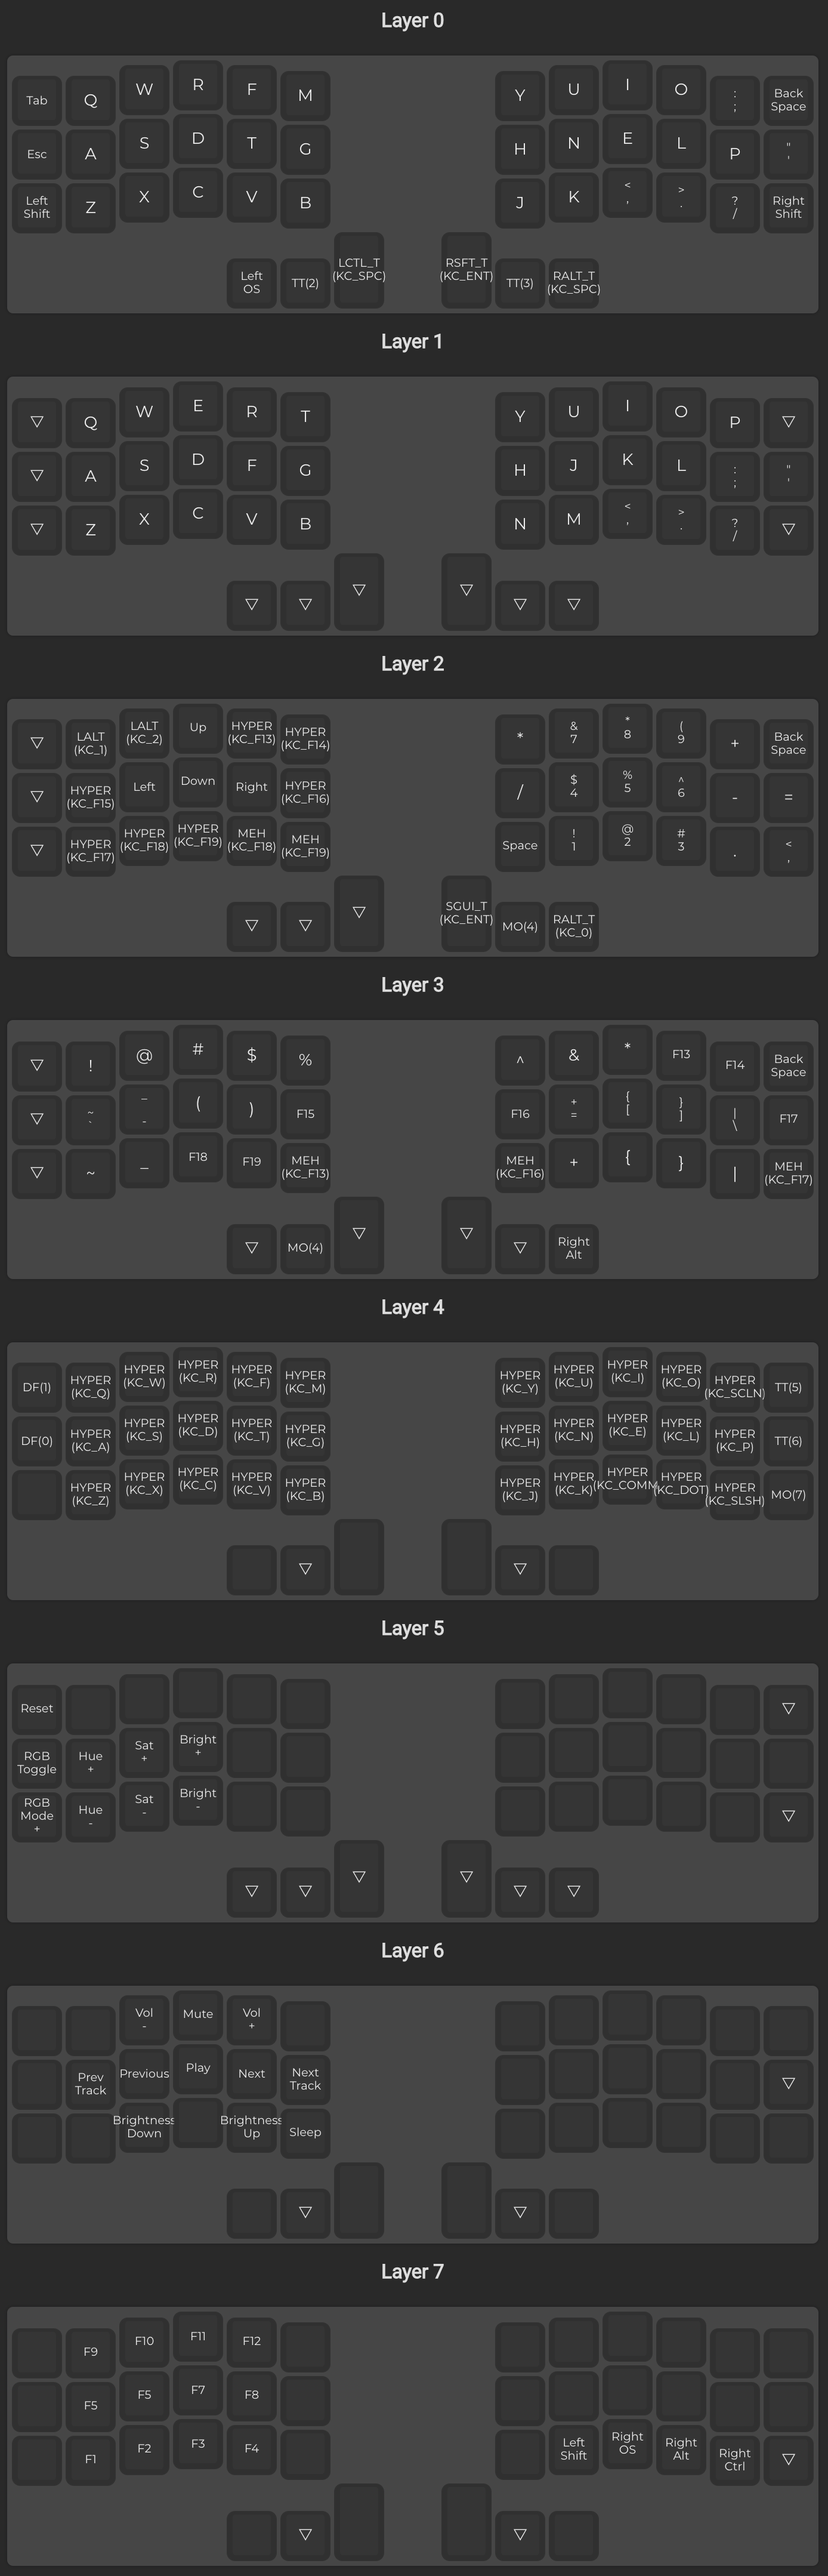
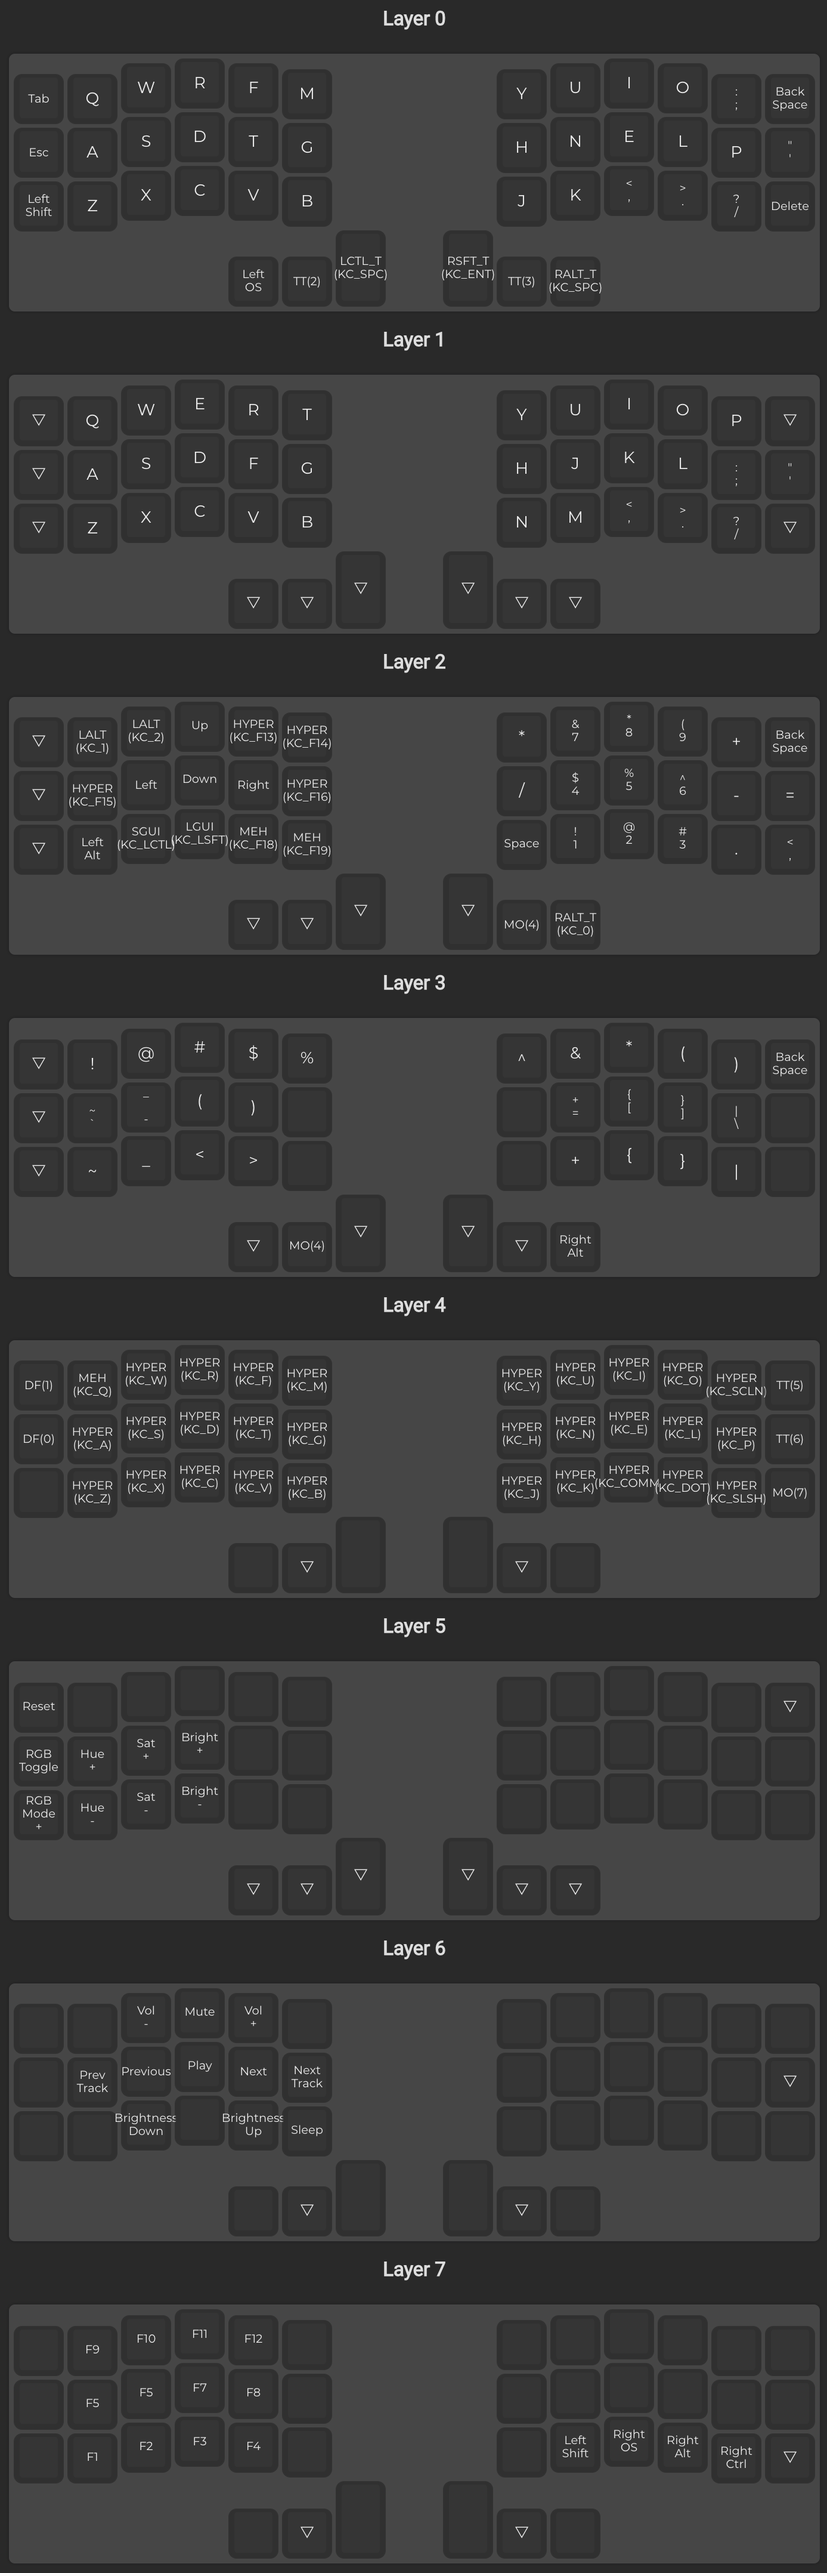
adjust aliases, update crkbd config and readme

diff --git a/README.md b/README.md
@@ -242,20 +242,7 @@ To play around with the layout, consider using this tool: https://config.qmk.fm/
 
 ### Required steps to build
 
-Changes:
-
-```
-# enable media keys in rules.mk
-EXTRAKEY_ENABLE = yes
-```
-
-```
-// increase tap time in tapping_term
-#define TAPPING_TERM 200
-#define TAPPING_TOGGLE 2
-#define PERMISSIVE_HOLD
-#define IGNORE_MOD_TAP_INTERRUPT
-```
+See the qmk fork for my keymap
 
 Convert the json file to a keymap and install it with `make crkbd:ayroblu`.
 
@@ -265,6 +252,17 @@ Convert the json file to a keymap and install it with `make crkbd:ayroblu`.
 - Function keys need to be normal function (not media) (done with karabiner)
 
 ### 2021-03-28 layout
+
+Note to generate these, take a full screen snapshot with chrome, then run this script to get the cropped version for dotfiles:
+
+```bash
+convert ayroblu-corne-layout-tmp.png -crop 1387x4312+745+782 ayroblu-corne-layout.png
+
+# Make side by side
+convert ayroblu-corne-layout-tmp.png -crop 1387x2156+745+782 ayroblu-corne-layout-cropped-0-3.png
+convert ayroblu-corne-layout-tmp.png -crop 1387x2156+745+2938 ayroblu-corne-layout-cropped-4-7.png
+convert +append ayroblu-corne-layout-cropped-* ayroblu-corne-layout-side.png
+```
 
 ![QMK layers](ayroblu-corne-layout.png)
 
